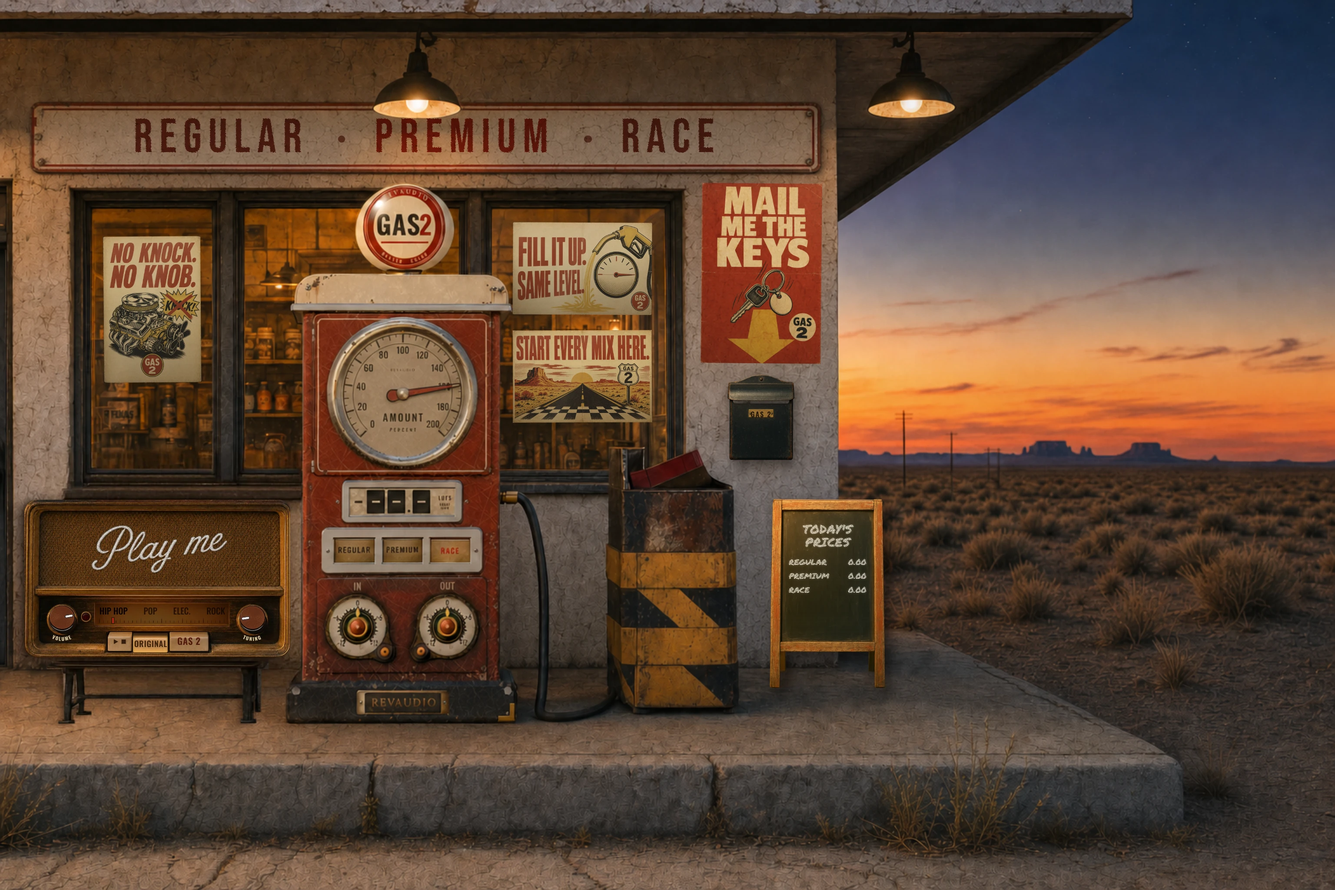
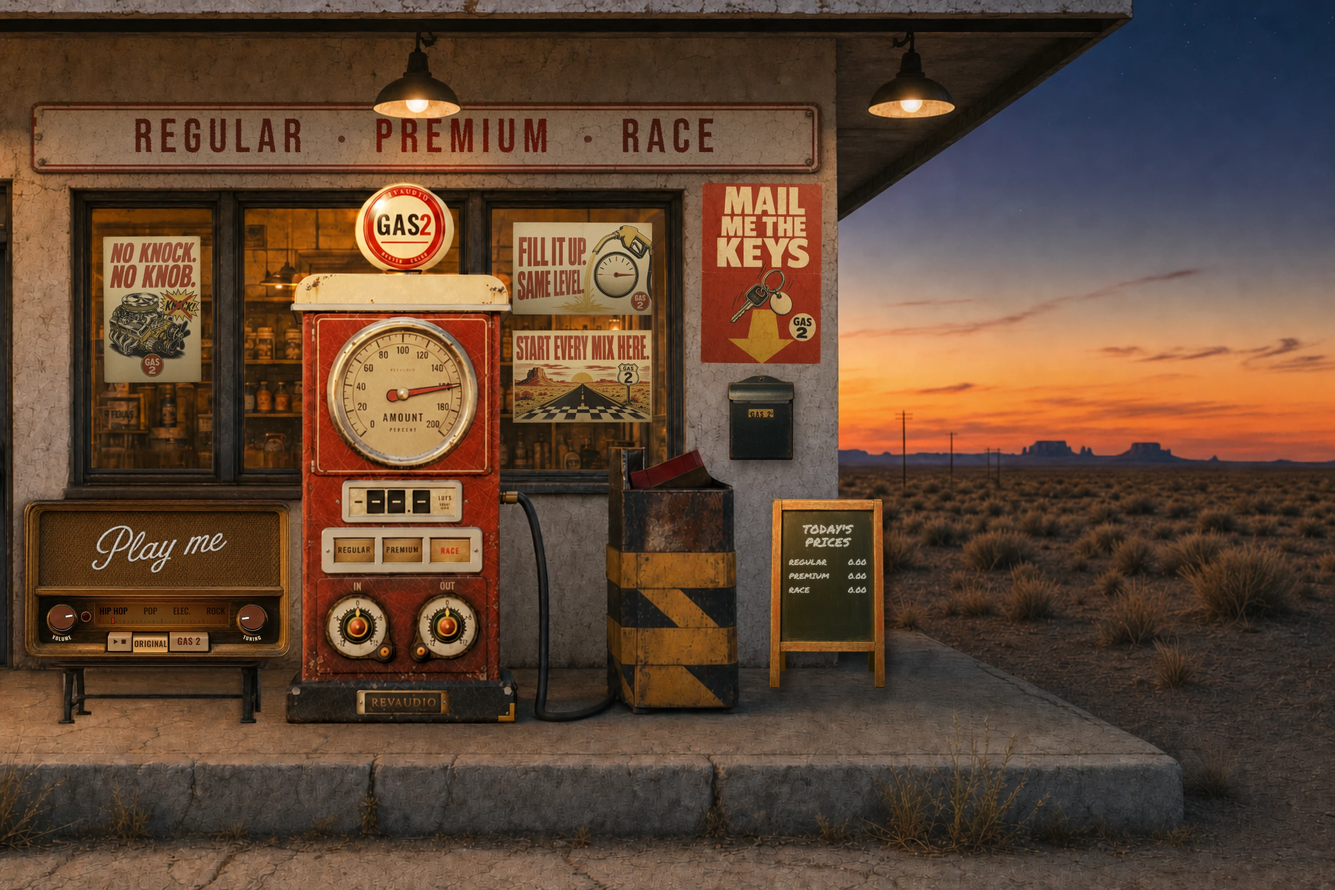
GAS 2 page: Dan's light on the pump (light bench pick) + landing frame (revaudio-59)
.pumpLit overlay, stops 53 % / 111 %; Spotlight D light .67, pump 1.12,
contrast 1.08 (its own slider now), shadow .21; storage key spot4.
drone/img/land.webp re-rendered: landed mean 0.00, landframe 2.57 / 1.42.
The bench is out (in git at a81dfa9).

Changed region(s): [[0.2188, 0.1875, 0.4062, 0.75]]

diff --git a/tools/_gas2-scene/page-b.html b/tools/_gas2-scene/page-b.html
@@ -102,12 +102,14 @@ body.ng-tape .note::before, body.ng-tape .note::after { background: linear-gradi
    AFTER the notes: they slide behind its edge, and its soft shadow fades them where they meet it. FADE = thinner paper
    (the lit shop shows through) and a little less light on it. The light is the lamp hanging right above the pump,
    on the pump only (Dan, same day: "a little less, just keep the light on the GAS 2 itself": no cone, no pool, no dim).
-   All of it is TUNE → Spotlight (COPY = the numbers to bake); the defaults live in the script at the bottom. */
+   All of it is TUNE → Spotlight (COPY = the numbers to bake); the defaults live in the script at the bottom.
+   Dan's pick 2026-10-29 (light bench: "a bench only on the light on GAS 2"): more lamp, overlay instead of soft-light,
+   reaching further down (the stops x1.26: was 42 % / 88 %), the pump a touch brighter + more contrast, a lighter shadow. */
 .note { opacity: var(--nf-o, 1); }
 .pumpCut { left: 21.289%; top: 20.215%; width: 17.643%; pointer-events: none; user-select: none;
   filter: brightness(var(--sp-b, 1)) contrast(var(--sp-k, 1)) drop-shadow(0 .4cqw 1.8cqw rgba(8, 4, 2, var(--sp-s, .55))); }
-.pumpLit { left: 21.289%; top: 20.215%; width: 17.643%; height: 61.523%; pointer-events: none; mix-blend-mode: soft-light; opacity: var(--sp-l, 0);
-  background: linear-gradient(180deg, rgba(255, 214, 150, .95) 0%, rgba(255, 200, 130, .5) 42%, transparent 88%);
+.pumpLit { left: 21.289%; top: 20.215%; width: 17.643%; height: 61.523%; pointer-events: none; mix-blend-mode: overlay; opacity: var(--sp-l, 0);
+  background: linear-gradient(180deg, rgba(255, 214, 150, .95) 0%, rgba(255, 200, 130, .5) 53%, transparent 111%);
   -webkit-mask: url(props/pump-cut.png) 0 0 / 100% 100% no-repeat; mask: url(props/pump-cut.png) 0 0 / 100% 100% no-repeat; }
 /* ═══ end spotlight ═══ */
 
@@ -637,8 +639,9 @@ if (/[?&]bench\b/.test(location.search)) {
 <script>
 // TUNE → Spotlight: the light on the pump + the notes' fade. ?spot=0 = all off (A/B screenshots); COPY = the numbers to bake
 (() => {
-  const D = { light: .3, pump: 1.04, shadow: .3, fade: .15 }, K = 'gas2page-b:spot3'; // spot3 = light on the pump only (Dan 2026-10-23)
-  const S = [['light', 'Light', 0, 1, .01], ['pump', 'Pump', 1, 1.3, .01], ['shadow', 'Shadow', 0, 1, .01], ['fade', 'Fade', 0, 1, .01]];
+  // spot4 = Dan's light bench pick (2026-10-29; contrast now its own number, was 1 + (pump - 1) / 2); spot3 = light on the pump only (10-23)
+  const D = { light: .67, pump: 1.12, contrast: 1.08, shadow: .21, fade: .15 }, K = 'gas2page-b:spot4';
+  const S = [['light', 'Light', 0, 1, .01], ['pump', 'Pump', 1, 1.3, .01], ['contrast', 'Contrast', .8, 1.4, .01], ['shadow', 'Shadow', 0, 1, .01], ['fade', 'Fade', 0, 1, .01]];
   let v = { ...D }, on = 1; try { Object.assign(v, JSON.parse(localStorage.getItem(K) || '{}')); } catch {}
   const q = new URLSearchParams(location.search).get('spot'); if (q === '0') on = 0;
   const sc = document.getElementById('scene'), box = document.createElement('div');
@@ -647,9 +650,9 @@ if (/[?&]bench\b/.test(location.search)) {
     + '<div class="row"><button id="sp-reset">Reset</button><button id="sp-copy">Copy</button></div>';
   document.getElementById('tune').appendChild(box);
   const apply = () => {
-    const x = on ? v : { light: 0, pump: 1, shadow: 0, fade: 0 };
+    const x = on ? v : { light: 0, pump: 1, contrast: 1, shadow: 0, fade: 0 };
     sc.style.setProperty('--sp-l', x.light);
-    sc.style.setProperty('--sp-b', x.pump); sc.style.setProperty('--sp-k', 1 + (x.pump - 1) * .5); sc.style.setProperty('--sp-s', x.shadow);
+    sc.style.setProperty('--sp-b', x.pump); sc.style.setProperty('--sp-k', x.contrast); sc.style.setProperty('--sp-s', x.shadow);
     sc.style.setProperty('--nf-o', 1 - .3 * x.fade); sc.style.setProperty('--nf-b', .86 - .16 * x.fade);
     document.getElementById('sp-on').checked = !!on;
     S.forEach(([k]) => { const i = document.getElementById('sp-' + k); i.value = v[k]; i.nextElementSibling.textContent = v[k]; });

diff --git a/tasks/handoff.md b/tasks/handoff.md
@@ -147,6 +147,13 @@ descent" section); this entry.
   4465 (`serve-nostore.py`): http://127.0.0.1:4465/light-bench.html. Next: Dan EXPORTs -> "apply" = the numbers into
   page-b's `.pumpLit` / `.pumpCut` CSS + the Spotlight D, then re-render `drone/img/land.webp` (the pump is in the
   landing frame) + the landing check; the bench goes once he has picked (as `?cue` did).
+- Then Dan pasted his EXPORT (2026-10-29 11:54: lamp .67, overlay, reach 1.26, colour 1 = amber, pump 1.12, contrast
+  1.08, shadow .21; was .3 / soft-light / 1 / 1 / 1.04 / 1.02 / .3) = apply: page-b `.pumpLit` overlay + stops 53 % /
+  111 % (42 / 88 x 1.26); TUNE → Spotlight D = { light .67, pump 1.12, contrast 1.08, shadow .21, fade .15 }, contrast
+  now its own slider (was 1 + (pump - 1) / 2), storage key spot3 -> spot4 (a browser's old TUNE numbers would hide the
+  new defaults). Checked: the page = the bench at his values (1280 x 915, max diff 1 / 255; vars .67 / 1.12 / 1.08 /
+  .21). `drone/img/land.webp` re-rendered (748 KB); check.cjs top 1440 + 390: landed vs ref-page mean 0.00 / 0.00,
+  landframe 2.57 / 1.42 (was 2.56 / 1.47), no errors. `light-bench.html` + its README line removed (in git at `a81dfa9`).
 
 ## 2026-10-26 — GAS 2 page: the drone intro (hover above the station, scroll = descent, land, readings pop) (Claude Code `danavivi-19`, Dan's Mac) — BRANCH `feat/gas2-page`
 

diff --git a/tools/_gas2-scene/README.md b/tools/_gas2-scene/README.md
@@ -18,8 +18,6 @@ python -m http.server 4462 --bind 127.0.0.1
 - `page-b.html?bench` — the shared RevAudio bench harness on B (click, drag, resize, fonts, colors, EXPORT). Needs
   `bench.js` next to the page: symlink or copy `revaudio-shared/tools/bench/bench.js` here (not committed: machine path).
 - TUNE (button bottom right, or T) — readings position / size + the 4 looks (Now / Neon / Enamel / Badge).
-- `light-bench.html` — the light on the pump (lamp amount / mix / reach / colour, pump brightness / contrast, shadow) on
-  the real page in a frame; LAB / SHIPPED (A), zoom on the pump, EXPORT. Temporary: goes once the look is picked.
 - The drone intro (branch `feat/gas2-drone`) — scroll from a hovering drone down into the scene; `?drone=0` skips it,
   `?angle=top|front|right` picks the hover. How it works + its bench: `drone/README.md`.
 
